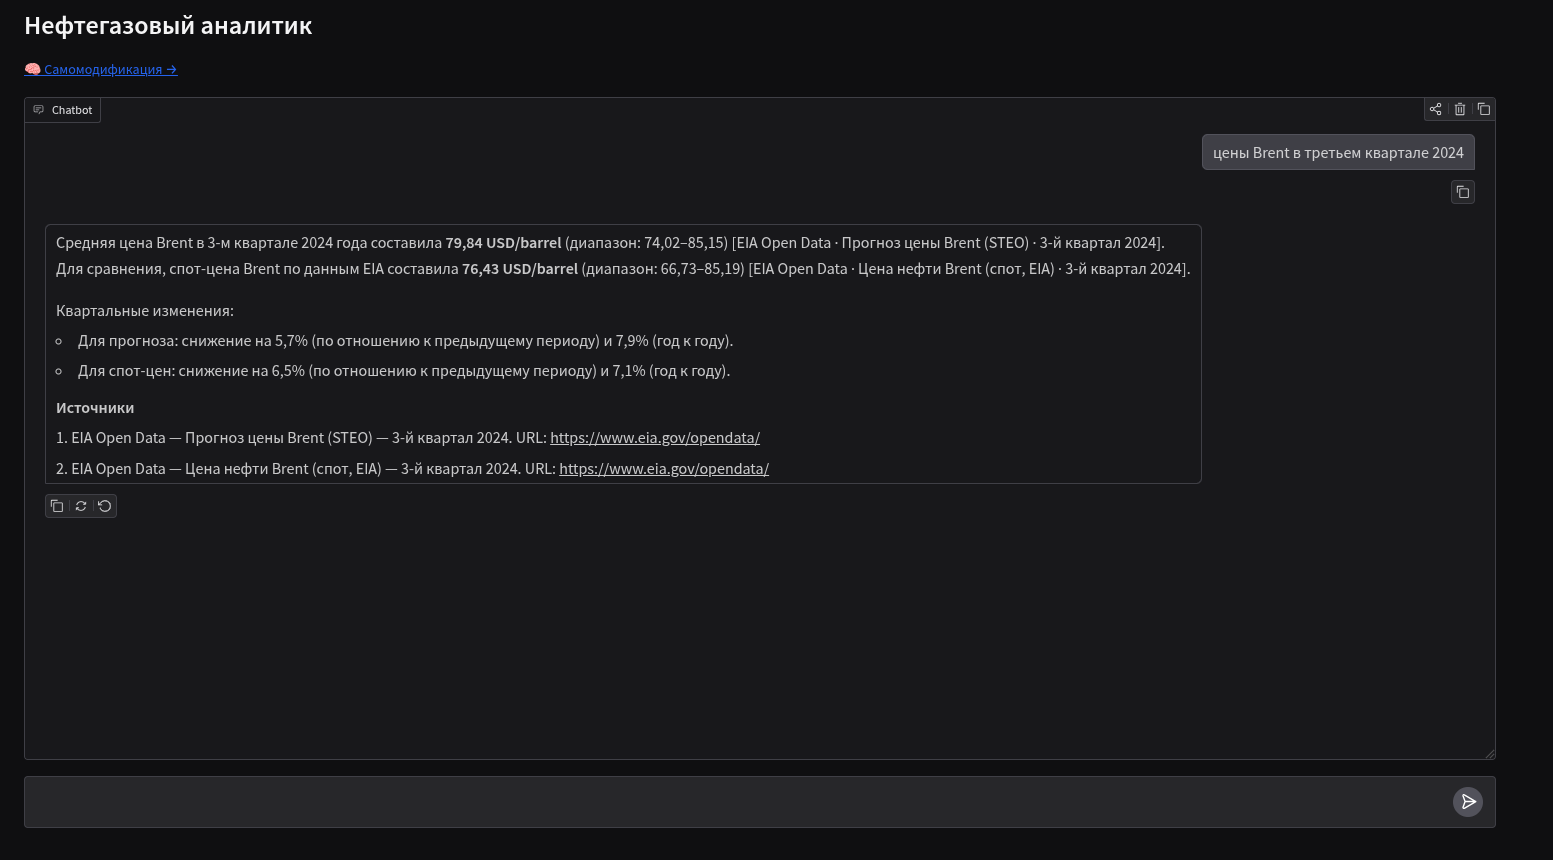
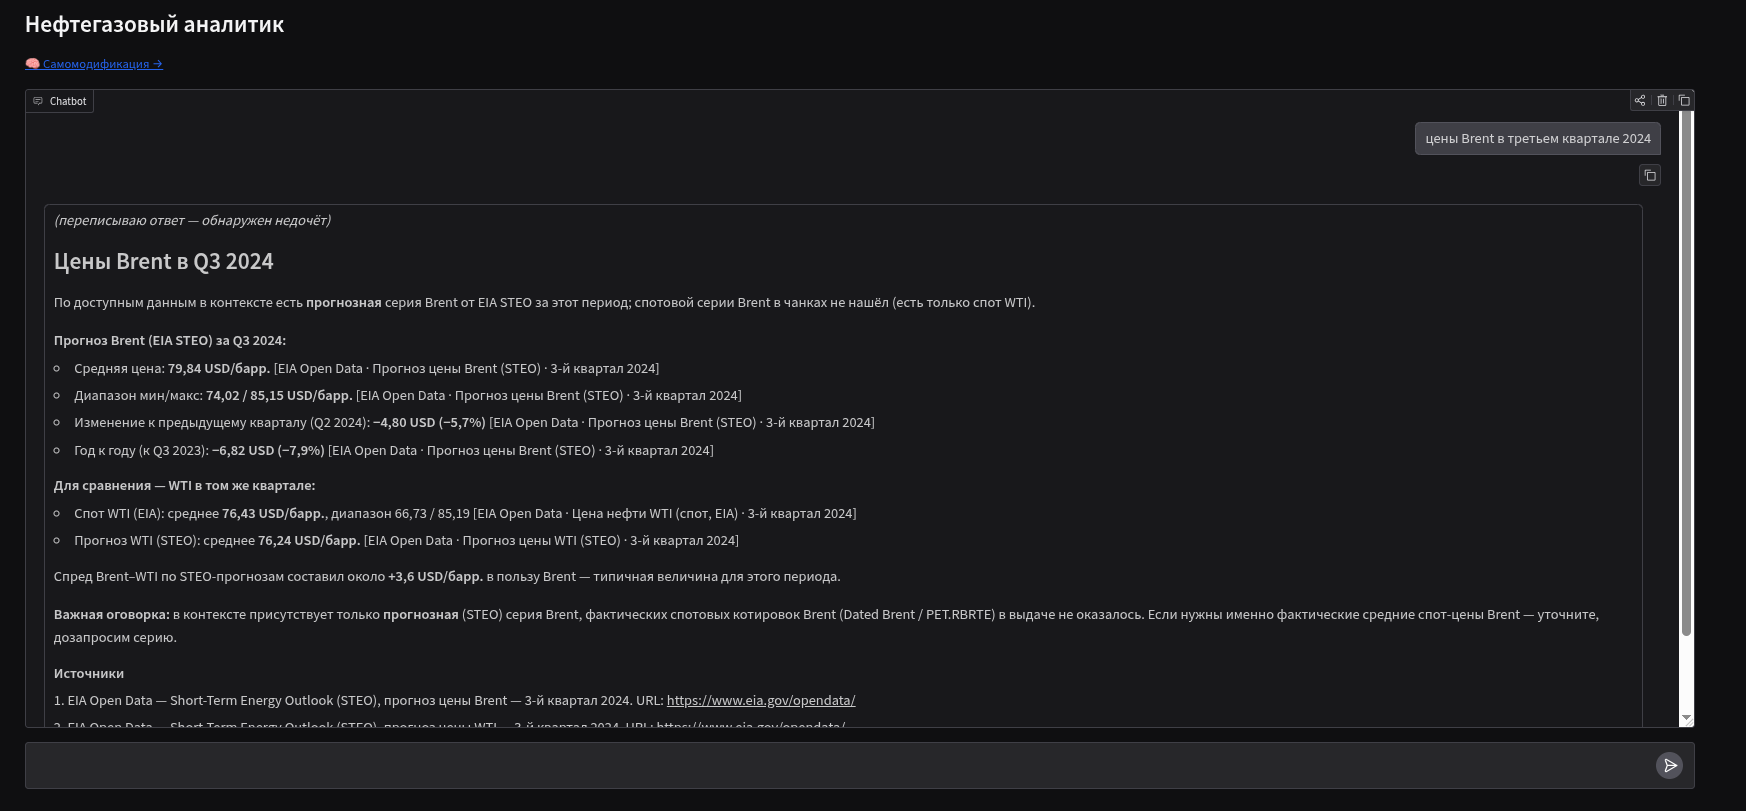
fix: поправил параметры API и добавил скриншоты

diff --git a/src/agent/graph.py b/src/agent/graph.py
@@ -24,10 +24,14 @@ def _route_by_intent(state: AgentState) -> str:
         return "web_search"
     if intent == "out_of_scope":
         return "refuse"
+    # rag_first и rag_plus_web — оба идут через RAG; различие — на следующем шаге.
     return "rag_retrieve"
 
 
 def _route_by_sufficiency(state: AgentState) -> str:
+    # Для смешанных запросов web всегда нужен (актуальная часть), независимо от sufficiency.
+    if state.get("intent") == "rag_plus_web":
+        return "web_search"
     return "compose_answer" if state.get("rag_sufficient") else "web_search"
 
 

diff --git a/src/agent/state.py b/src/agent/state.py
@@ -4,7 +4,7 @@ from typing import Annotated, Any, Literal, TypedDict
 
 from langgraph.graph.message import add_messages
 
-Intent = Literal["forecast", "rag_first", "web_only", "out_of_scope"]
+Intent = Literal["forecast", "rag_first", "rag_plus_web", "web_only", "out_of_scope"]
 
 
 class AgentState(TypedDict, total=False):

diff --git a/src/agent/nodes/classify_intent.py b/src/agent/nodes/classify_intent.py
@@ -13,7 +13,7 @@ from src.utils.logging import get_logger
 
 log = get_logger("agent.classify_intent")
 
-VALID_INTENTS = {"forecast", "rag_first", "web_only", "out_of_scope"}
+VALID_INTENTS = {"forecast", "rag_first", "rag_plus_web", "web_only", "out_of_scope"}
 
 
 def _last_human_text(messages: list) -> str:

diff --git a/src/agent/nodes/compose_answer.py b/src/agent/nodes/compose_answer.py
@@ -12,7 +12,7 @@ from src.prompts import load_prompt
 from src.utils.logging import get_logger
 
 log = get_logger("agent.compose_answer")
-MAX_CHUNK_TEXT = 700
+MAX_CHUNK_TEXT = 1500
 MAX_TOOL_HOPS = 3
 _TOOL_REGISTRY = {t.name: t for t in ALL_TOOLS}
 

diff --git a/prompts/nodes/classify-intent.system.md b/prompts/nodes/classify-intent.system.md
@@ -4,7 +4,8 @@
 
 - **forecast** — пользователь явно просит **прогноз на будущее** или сценарный анализ «что будет, если». Триггер — БУДУЩЕЕ время или явные слова «спрогнозируй», «прогноз на N месяцев», «куда пойдёт», «если OPEC сократит», «что случится при», «целевая цена». Примеры: «спрогнозируй Brent на 3 месяца», «куда пойдут цены при OPEC −2 мб/с».
 - **rag_first** — вопрос про **факты, цифры, исторические данные**. Запросы про прошлые периоды («какая средняя цена X в Q3 2024», «динамика WTI в 2023», «что говорил OPEC в декабре») — это **rag_first, а не forecast**, даже если упомянуты «цены». Forecast — только когда запрашивается БУДУЩЕЕ или гипотетический сценарий. Самый частый сценарий.
-- **web_only** — вопрос про «сейчас», «сегодня», «вчера», «на этой неделе», свежие новости, текущие котировки, заявления первых лиц за последние дни. Данные в RAG для такого устаревшие.
+- **rag_plus_web** — **смешанный** запрос, где в одном вопросе есть И историческая/фактическая часть (для RAG), И часть про актуальность («сейчас», «сегодня», «последние», «текущая позиция»). Примеры: «какая средняя цена Brent в Q3 2024 **и что говорят сейчас** про сокращения ОПЕК», «динамика добычи в 2023 **и текущее** заявление Минэнерго», «спред Urals год назад **vs сегодня**». Признак — наличие в одном запросе двух временных горизонтов (прошлое + настоящее) ИЛИ союза «и» между исторической и актуальной частью.
+- **web_only** — вопрос **исключительно** про «сейчас», «сегодня», «вчера», «на этой неделе», свежие новости, текущие котировки, заявления первых лиц за последние дни, без исторической части. Данные в RAG для такого устаревшие.
 - **out_of_scope** — вопрос не имеет отношения к нефтегазовому рынку (политика общего характера, личные просьбы, программирование и т.п.).
 
 **Важно:** просьбы про настройки агента, изменение параметров поиска, предложения улучшений системы («предложи увеличить top_k», «измени порог», «настрой prompt», «давай поправим RAG») — это **rag_first** (агент сам решит, надо ли вызвать tool `propose_self_improvement` в ответе). Это НЕ `out_of_scope`.

diff --git a/README.md b/README.md
@@ -34,4 +34,6 @@ RAG-индекс наполняется из реальных публичных
 
 LLM-слой построен на **LangChain + LangGraph** и поддерживает любого провайдера из двух семейств: **OpenAI-совместимый API** (`langchain-openai` — родной OpenAI, Ollama, vLLM, LM Studio, OpenRouter, DeepSeek и пр.) и **Anthropic** (`langchain-anthropic` — Claude). Провайдер выбирается через `.env` без изменений кода. Выбор стека продиктован ТЗ: п. 2.2 требует **граф состояний агента** (classify → RAG/web → forecast → compose → reflect) — LangGraph даёт это из коробки с типизированным `State`, чекпойнтами и условными рёбрами, а LangChain — единый интерфейс к моделям и tool-calling (нужен для `propose_self_improvement` из п. саморазвития). **Qdrant** выбран под требование к векторному поиску с фильтрами по метаданным (источник/период/тип), **pymupdf4llm + pdfplumber** — под парсинг отраслевых PDF (OPEC MOMR, WOO) с сохранением таблиц, **statsmodels + sklearn** — под требование прогнозирования с интерпретируемыми коэффициентами и доверительными интервалами (п. 2.5), **Gradio** — под быстрый чат-UI без фронтенд-разработки (п. 2.6).
 
+Демо построено на Antropic - считаю модель дорогой, но всё-таки одной из лучших и пользуюсь сам.
+
 **Что выбрал бы альтернативно:** для production-нагрузки — **pgvector вместо Qdrant** (одна БД на всё — данные, метаданные, эмбеддинги; проще операционно, дешевле на малых объёмах), **time-series foundation models вместо чистой SARIMA** — zero-shot форкастеры, предобученные на миллиардах точек: **Chronos**, **TimesFM**, **Moirai**, **TimeGPT** (Nixtla, API). Они работают без переобучения на каждом активе, ловят сложные нелинейные паттерны. Поверх — **conformal prediction остаётся** как обёртка для калибровки, и **FastAPI + React вместо Gradio** для красивого UX и многопользовательской сессионности. Текущий стек выбран сознательно проще — он покрывает ТЗ за меньшее время и легче отлаживается соло-разработчиком.
